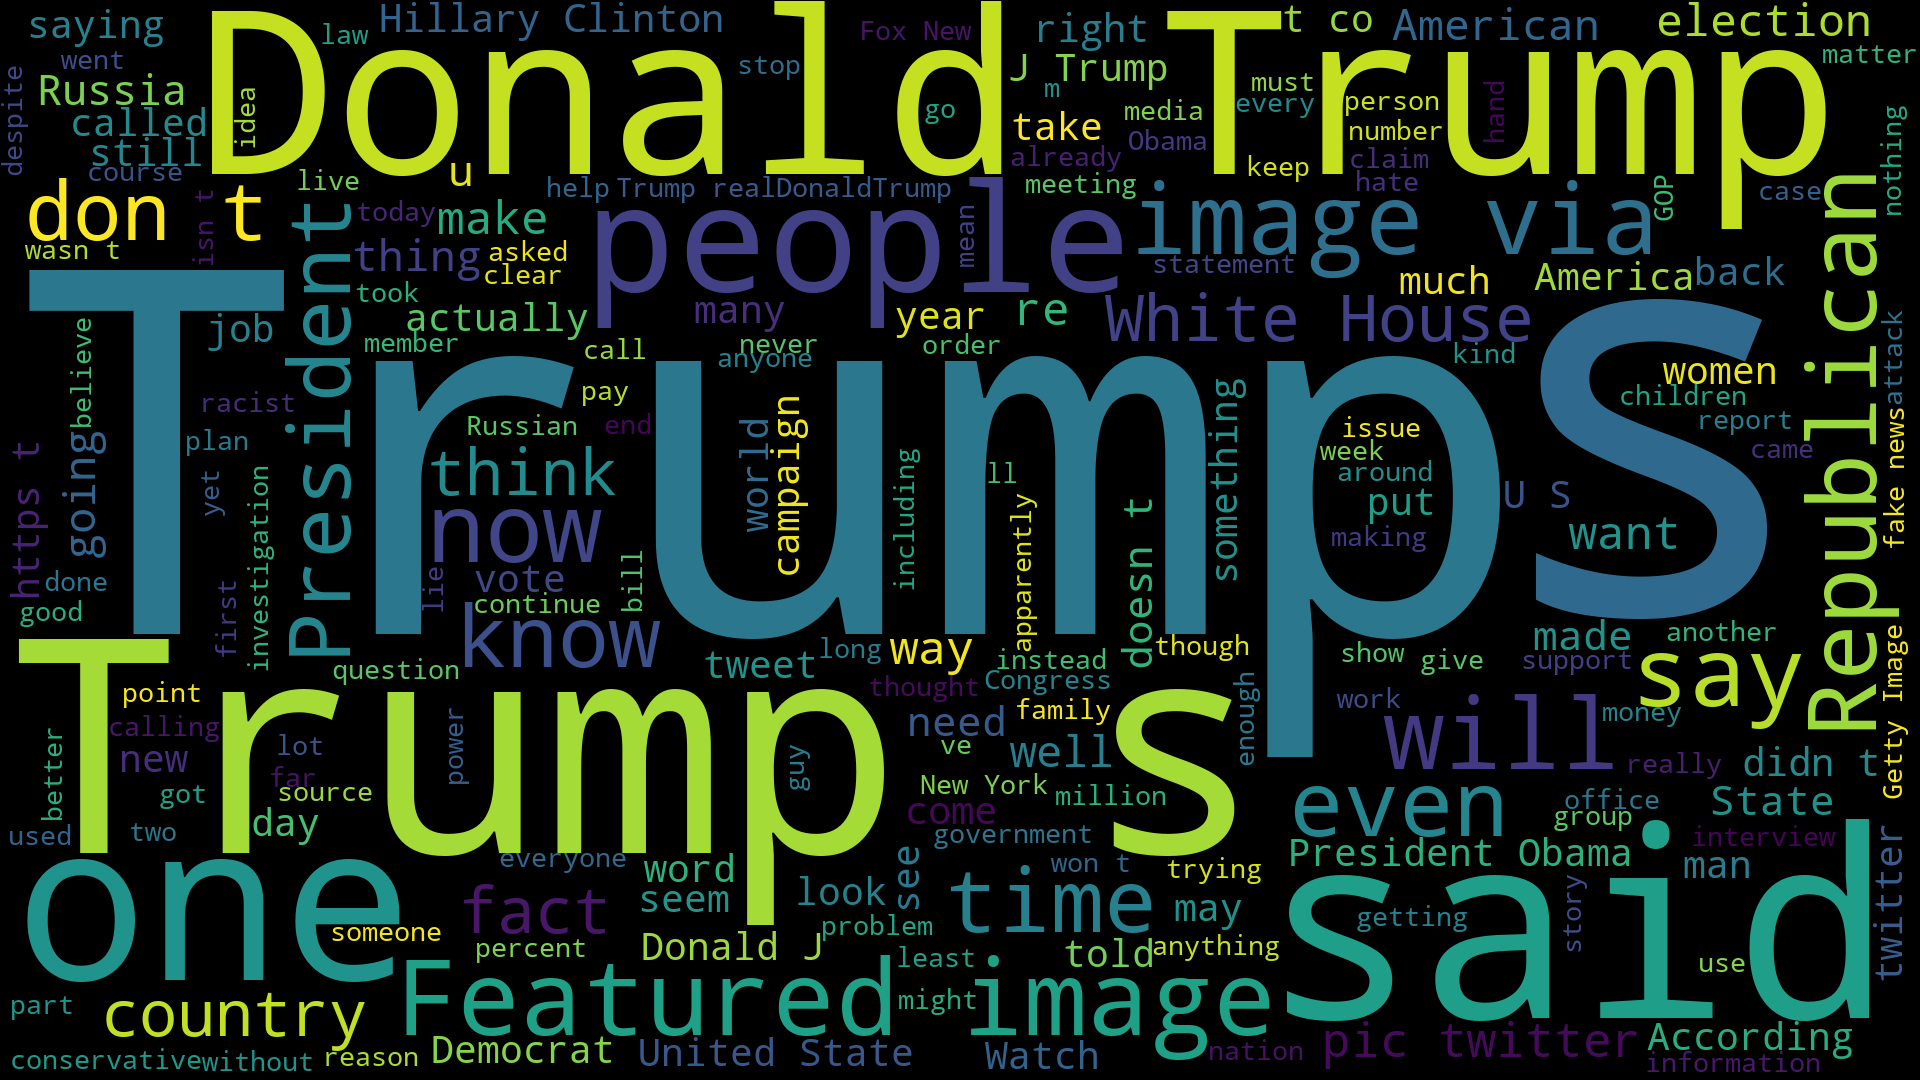
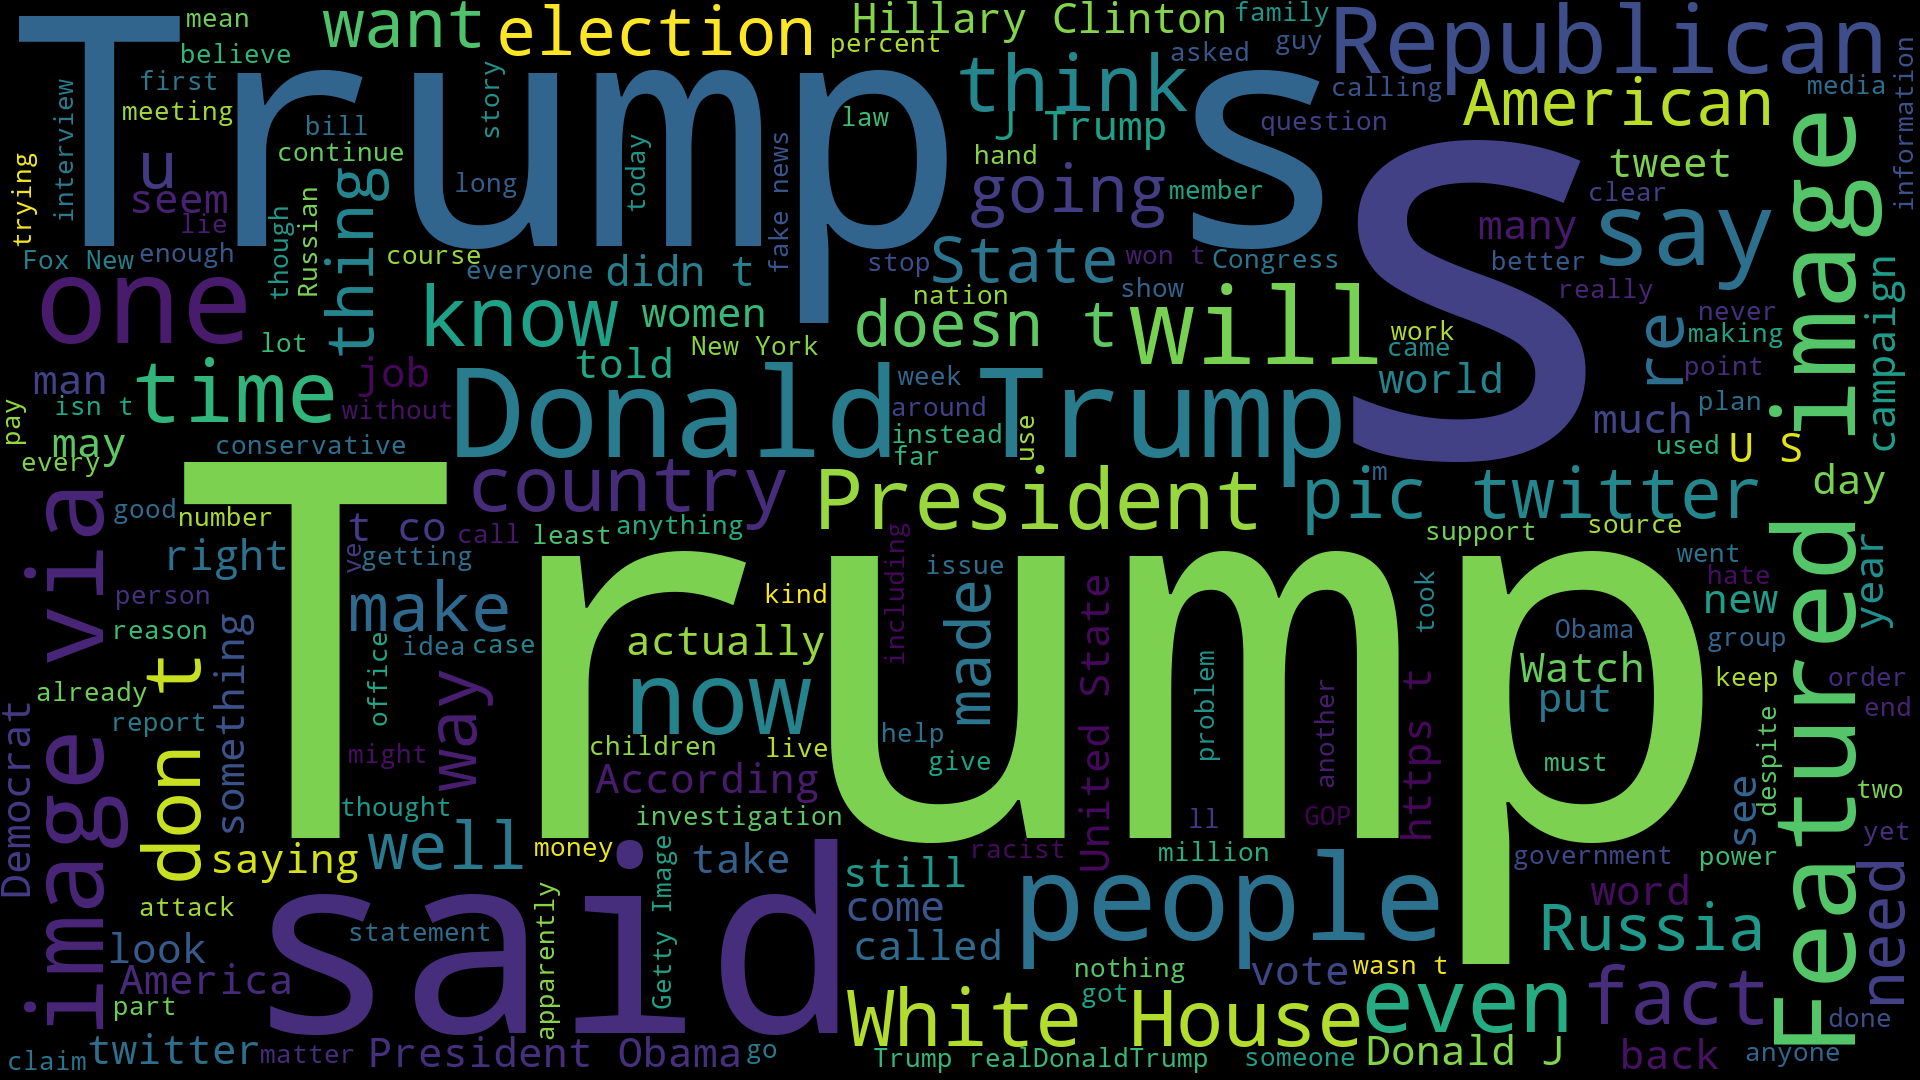
fixed make_wordcloud, now I can make two separate wordclouds.

diff --git a/make_wordcloud.py b/make_wordcloud.py
@@ -8,14 +8,19 @@ dp = DataProcessor()
 
 real, fake = dp.getDatasets()
 
-#realString = "".join([art for art in real])
 fakeString = "".join([art for art in fake])
-
-#print(realString == fakeString)
 
 wc = WordCloud(stopwords=STOPWORDS, height=1080, width=1920)
 
-#r_wc = wc.generate(realString)
 f_wc = wc.generate(fakeString)
-#r_wc.to_file('static/visualizations/realWordCloud.png')
+
 f_wc.to_file('static/visualizations/fakeWordCloud.png')
+
+#Moving onto generate a wordcloud for the real articles
+realString = "".join([art for art in real])
+
+wc = WordCloud(stopwords=STOPWORDS, height=1080, width=1920)
+
+r_wc = wc.generate(realString)
+
+r_wc.to_file('static/visualizations/realWordCloud.png')
